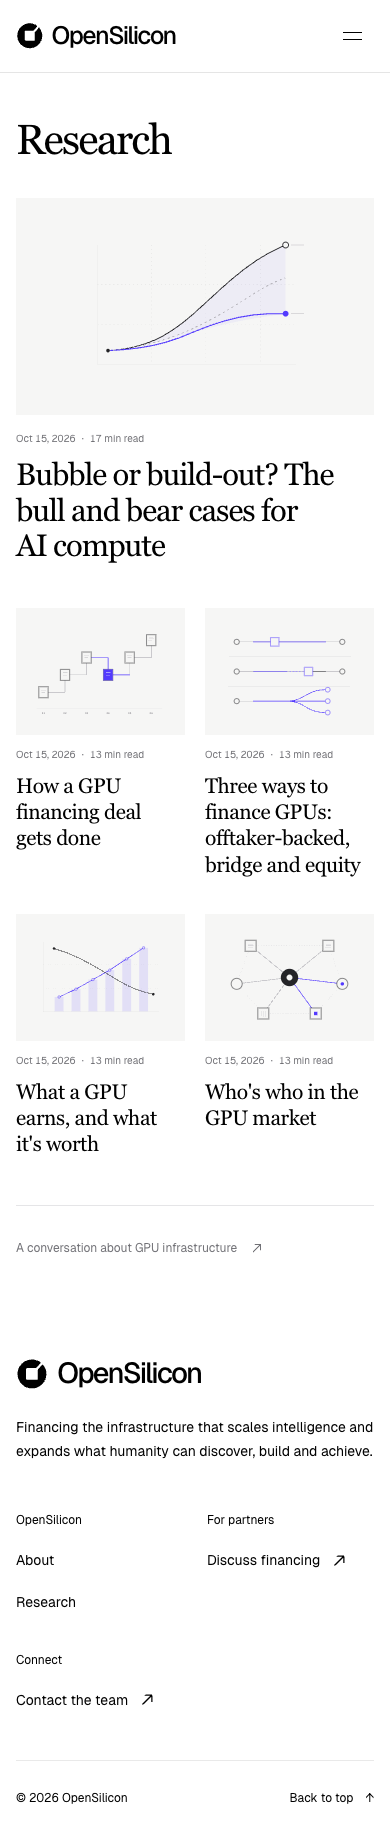
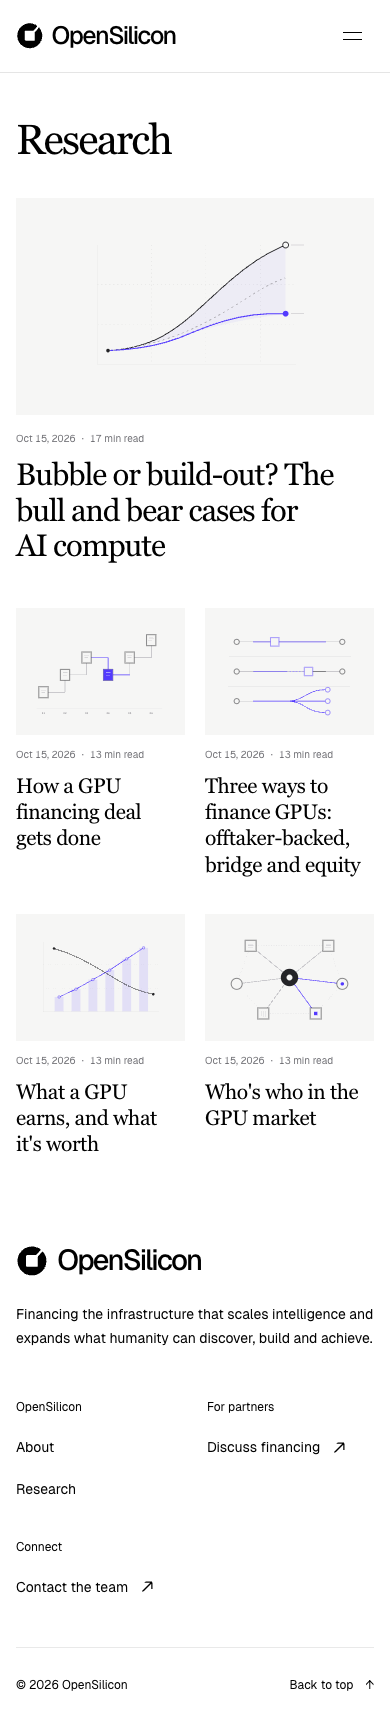
Remove the Research index contact prompt and divider

diff --git a/app/research/research.css b/app/research/research.css
@@ -17,10 +17,9 @@
 .research-featured .research-cover { aspect-ratio: 1.4 / 1; }
 .research-featured .research-card-copy { padding-top: 20px; }
 .research-featured .research-card-title { max-width: 600px; margin-top: 14px; font-size: clamp(32px, 3vw, 43px); line-height: 1.13; letter-spacing: -.035em; }
-.research-contact { margin-top: 80px; padding-top: 28px; border-top: 1px solid var(--research-rule); }
-.research-contact a, .research-article-contact a { display: inline-flex; align-items: center; gap: 12px; min-height: 44px; color: var(--research-muted); font-size: 13px; line-height: 1.5; }
-.research-contact a:hover, .research-article-contact a:hover { color: var(--accent); }
-.research-contact .arrow, .research-article-contact .arrow { width: 15px; height: 15px; }
+.research-article-contact a { display: inline-flex; align-items: center; gap: 12px; min-height: 44px; color: var(--research-muted); font-size: 13px; line-height: 1.5; }
+.research-article-contact a:hover { color: var(--accent); }
+.research-article-contact .arrow { width: 15px; height: 15px; }
 .research-coming { display: flex; gap: 24px; padding-block: 32px 72px; }
 .research-coming h2 { font-family: var(--research-serif); font-size: 32px; }
 .research-coming p { max-width: 520px; margin-top: 16px; color: var(--research-muted); }
@@ -146,8 +145,6 @@
   .research-card-copy { padding-top: 12px; }
   .research-card-title { font-size: 21px; line-height: 1.25; letter-spacing: -.02em; }
   .research-post-meta { gap: 2px 6px; font-size: 10px; }
-  .research-contact { margin-top: 48px; padding-top: 20px; }
-  .research-contact a { font-size: 12px; }
   .research-article { padding-block: 100px 32px; }
   .research-back { margin-bottom: 24px; }
   .research-article-meta { margin-bottom: 20px; font-size: 11px; }

diff --git a/app/research/page.tsx b/app/research/page.tsx
@@ -1,5 +1,3 @@
-import Link from "next/link";
-import Arrow from "@/components/Arrow";
 import ResearchLibrary from "@/components/research/ResearchLibrary";
 import { formatResearchDate, getResearchPosts } from "@/lib/research";
 import { pageMetadata } from "@/lib/site";
@@ -16,7 +14,6 @@ export default async function ResearchPage() {
         <h1>Research</h1>
       </header>
       {posts.length ? <ResearchLibrary posts={summaries} /> : <section className="research-coming" aria-labelledby="research-coming-title"><span className="tiny-cross" aria-hidden="true">+</span><div><h2 id="research-coming-title">Research is on the way.</h2><p>We’ll share our perspectives on GPU infrastructure and financing here as our research is published.</p></div></section>}
-      <p className="research-contact"><Link href="/contact">A conversation about GPU infrastructure <Arrow /></Link></p>
     </div>
   );
 }

diff --git a/docs/research/design/README.md b/docs/research/design/README.md
@@ -4,7 +4,7 @@ The October 16 revision treats Research as a small publication. The index has a 
 
 Each published article has an original SVG cover in `public/research/covers/`. The five covers share black and gray linework, OpenSilicon purple and a neutral background. They represent the article's subject; schematic curves are conceptual illustrations, not additional market data. All five SVGs total 8,299 bytes and contain no external assets.
 
-Article pages use a shared title and reading grid, marginal author/date information on desktop, serif prose, neutral tables and an unfilled takeaway separated by fine rules. Contact actions are quiet text links. The contents rail, mobile contents disclosure, header progress line, references and full-size figures remain available. Published article text, dates, authors, sources and publication status are unchanged.
+Article pages use a shared title and reading grid, marginal author/date information on desktop, serif prose, neutral tables and an unfilled takeaway separated by fine rules. The index ends after the articles with no separate contact prompt or divider; article contact actions are quiet text links. The contents rail, mobile contents disclosure, header progress line, references and full-size figures remain available. Published article text, dates, authors, sources and publication status are unchanged.
 
 ## Verification
 
